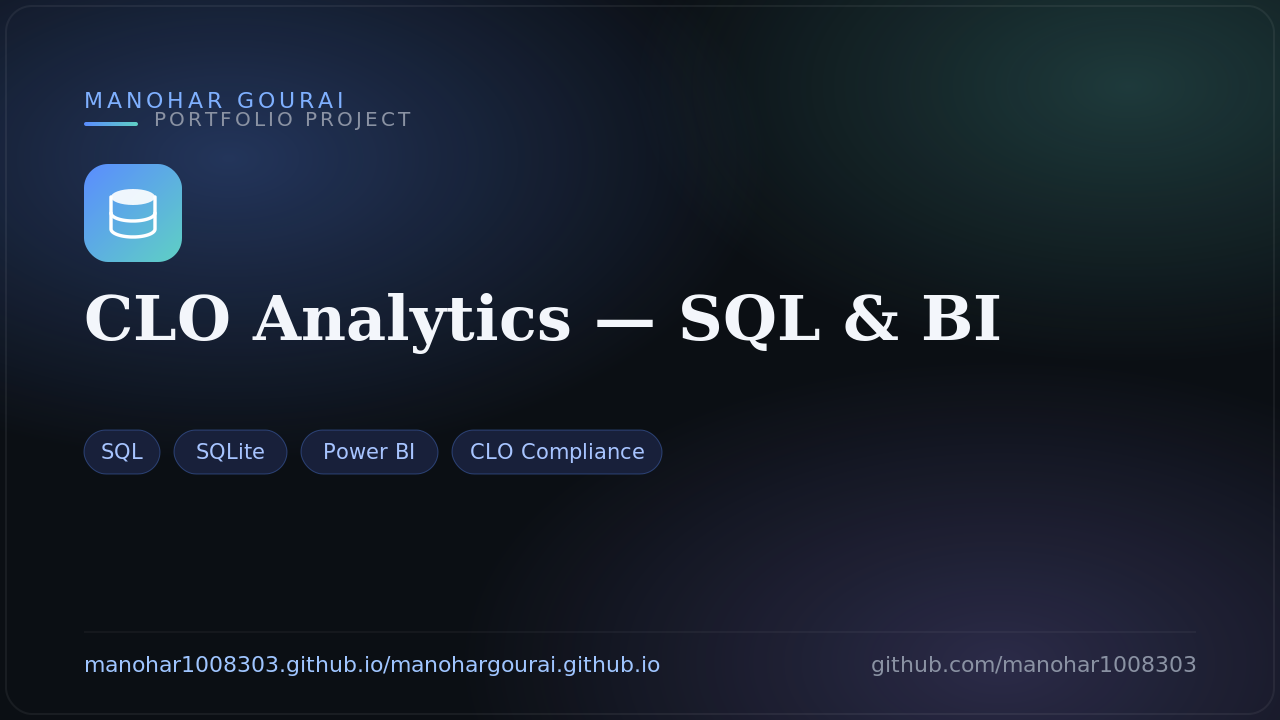
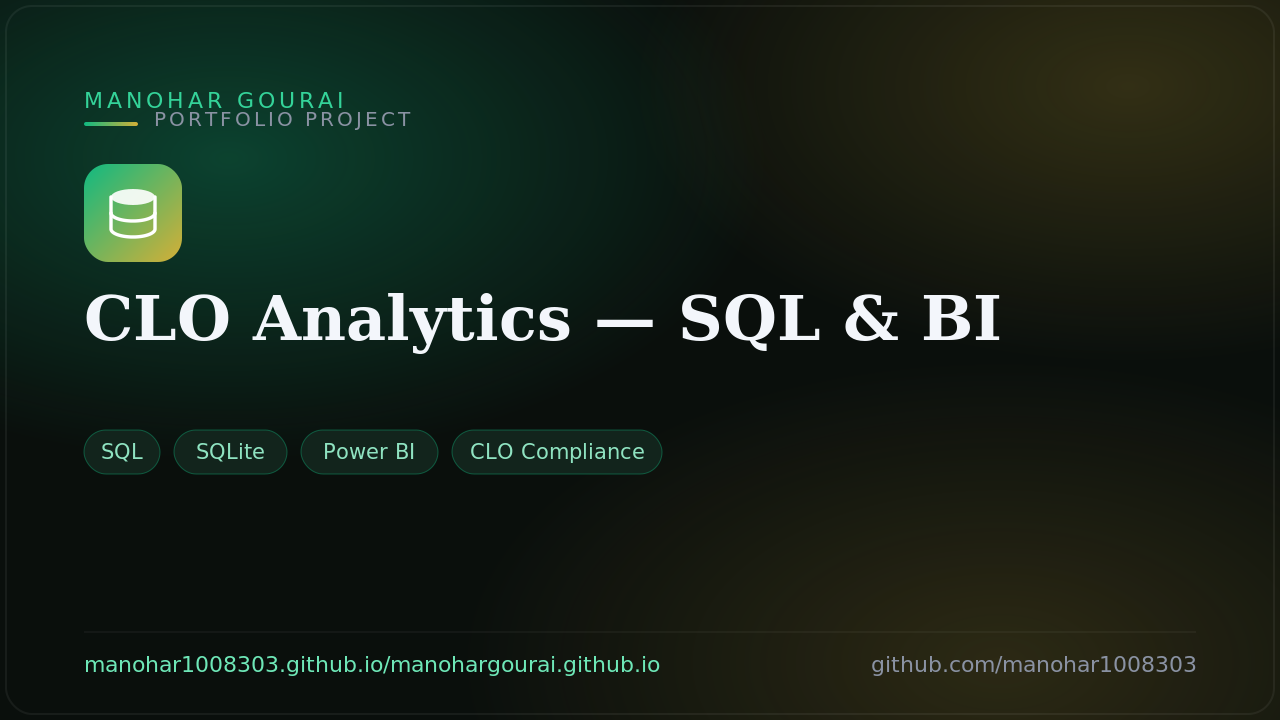
Recolor project landing pages + previews to emerald/gold; add matching fonts

diff --git a/culture-economic-analysis/index.html b/culture-economic-analysis/index.html
@@ -12,21 +12,22 @@
 <meta name="twitter:title" content="Culture &amp; Economic Performance Analysis">
 <meta name="twitter:description" content="A JMP statistical study pairing Hofstede&#x27;s six cultural dimensions with GDP per capita for 60 countries across 2020–2024 — correlation and hypothesis testing, multiple regression with full diagnostics, factor analysis, and GDP forecasting for market-entry insight.">
 <meta name="twitter:image" content="https://manohar1008303.github.io/manohargourai.github.io/culture-economic-analysis/preview.png">
+<link rel="preconnect" href="https://fonts.googleapis.com"><link rel="preconnect" href="https://fonts.gstatic.com" crossorigin><link href="https://fonts.googleapis.com/css2?family=Fraunces:opsz,wght@9..144,500;9..144,600;9..144,700&family=Spline+Sans:wght@400;500;600;700&display=swap" rel="stylesheet">
 <style>
 *{box-sizing:border-box}
-body{margin:0;font-family:'Spline Sans','Segoe UI',sans-serif;background:#0b0f14;color:#e6e8eb;min-height:100vh;
-background-image:radial-gradient(40% 50% at 15% 20%,rgba(90,140,255,.18),transparent 70%),radial-gradient(35% 45% at 85% 15%,rgba(95,208,196,.14),transparent 70%),radial-gradient(45% 55% at 75% 85%,rgba(155,140,255,.13),transparent 70%),radial-gradient(circle at top left,#141b2d,#0b0f14);}
+body{margin:0;font-family:'Spline Sans','Segoe UI',sans-serif;background:#0a0f0c;color:#e6e8eb;min-height:100vh;
+background-image:radial-gradient(40% 50% at 15% 20%,rgba(16,185,129,.18),transparent 70%),radial-gradient(35% 45% at 85% 15%,rgba(212,175,55,.14),transparent 70%),radial-gradient(45% 55% at 75% 85%,rgba(201,161,58,.13),transparent 70%),radial-gradient(circle at top left,#0f1e18,#0a0f0c);}
 .wrap{max-width:820px;margin:0 auto;padding:64px 24px;}
-.back{color:#9fc5ff;text-decoration:none;font-size:15px;}
-.kicker{margin-top:40px;letter-spacing:4px;color:#7fb0ff;font-size:14px;}
+.back{color:#6ee7b7;text-decoration:none;font-size:15px;}
+.kicker{margin-top:40px;letter-spacing:4px;color:#34d399;font-size:14px;}
 h1{font-family:'Fraunces',Georgia,serif;font-size:44px;line-height:1.15;margin:14px 0 20px;}
 p.desc{color:#cfd6e6;line-height:1.75;font-size:18px;}
 .tags{display:flex;flex-wrap:wrap;gap:10px;margin:26px 0 36px;}
-.tag{font-size:13px;padding:7px 15px;border-radius:16px;background:rgba(255,255,255,.06);color:#a7c4ff;}
+.tag{font-size:13px;padding:7px 15px;border-radius:16px;background:rgba(255,255,255,.06);color:#8fe3c1;}
 .btns{display:flex;flex-wrap:wrap;gap:16px;}
 .btn{display:inline-flex;align-items:center;gap:9px;padding:14px 26px;border-radius:28px;text-decoration:none;font-size:15px;font-weight:600;}
-.btn.primary{background:linear-gradient(135deg,#5a8cff,#5fd0c4);color:#08101f;}
-.btn.ghost{border:1px solid rgba(127,176,255,.4);color:#9fc5ff;}
+.btn.primary{background:linear-gradient(135deg,#10b981,#d4af37);color:#08101f;}
+.btn.ghost{border:1px solid rgba(52,211,153,.4);color:#6ee7b7;}
 .thumb{width:100%;border-radius:18px;margin-top:44px;box-shadow:0 18px 50px rgba(0,0,0,.5);border:1px solid rgba(255,255,255,.06);}
 footer{margin-top:56px;color:#7a828f;font-size:14px;}
 </style></head>

diff --git a/ecommerce-sales-analysis/index.html b/ecommerce-sales-analysis/index.html
@@ -12,21 +12,22 @@
 <meta name="twitter:title" content="E-Commerce Sales &amp; Order Analysis">
 <meta name="twitter:description" content="An end-to-end Tableau analysis of a Brazilian e-commerce marketplace (~89K order lines) across orders, products, customers, payments and sellers — six worksheets, an interactive dashboard, and a multi-step data story surfacing category, payment and seasonal insights.">
 <meta name="twitter:image" content="https://manohar1008303.github.io/manohargourai.github.io/ecommerce-sales-analysis/preview.png">
+<link rel="preconnect" href="https://fonts.googleapis.com"><link rel="preconnect" href="https://fonts.gstatic.com" crossorigin><link href="https://fonts.googleapis.com/css2?family=Fraunces:opsz,wght@9..144,500;9..144,600;9..144,700&family=Spline+Sans:wght@400;500;600;700&display=swap" rel="stylesheet">
 <style>
 *{box-sizing:border-box}
-body{margin:0;font-family:'Spline Sans','Segoe UI',sans-serif;background:#0b0f14;color:#e6e8eb;min-height:100vh;
-background-image:radial-gradient(40% 50% at 15% 20%,rgba(90,140,255,.18),transparent 70%),radial-gradient(35% 45% at 85% 15%,rgba(95,208,196,.14),transparent 70%),radial-gradient(45% 55% at 75% 85%,rgba(155,140,255,.13),transparent 70%),radial-gradient(circle at top left,#141b2d,#0b0f14);}
+body{margin:0;font-family:'Spline Sans','Segoe UI',sans-serif;background:#0a0f0c;color:#e6e8eb;min-height:100vh;
+background-image:radial-gradient(40% 50% at 15% 20%,rgba(16,185,129,.18),transparent 70%),radial-gradient(35% 45% at 85% 15%,rgba(212,175,55,.14),transparent 70%),radial-gradient(45% 55% at 75% 85%,rgba(201,161,58,.13),transparent 70%),radial-gradient(circle at top left,#0f1e18,#0a0f0c);}
 .wrap{max-width:820px;margin:0 auto;padding:64px 24px;}
-.back{color:#9fc5ff;text-decoration:none;font-size:15px;}
-.kicker{margin-top:40px;letter-spacing:4px;color:#7fb0ff;font-size:14px;}
+.back{color:#6ee7b7;text-decoration:none;font-size:15px;}
+.kicker{margin-top:40px;letter-spacing:4px;color:#34d399;font-size:14px;}
 h1{font-family:'Fraunces',Georgia,serif;font-size:44px;line-height:1.15;margin:14px 0 20px;}
 p.desc{color:#cfd6e6;line-height:1.75;font-size:18px;}
 .tags{display:flex;flex-wrap:wrap;gap:10px;margin:26px 0 36px;}
-.tag{font-size:13px;padding:7px 15px;border-radius:16px;background:rgba(255,255,255,.06);color:#a7c4ff;}
+.tag{font-size:13px;padding:7px 15px;border-radius:16px;background:rgba(255,255,255,.06);color:#8fe3c1;}
 .btns{display:flex;flex-wrap:wrap;gap:16px;}
 .btn{display:inline-flex;align-items:center;gap:9px;padding:14px 26px;border-radius:28px;text-decoration:none;font-size:15px;font-weight:600;}
-.btn.primary{background:linear-gradient(135deg,#5a8cff,#5fd0c4);color:#08101f;}
-.btn.ghost{border:1px solid rgba(127,176,255,.4);color:#9fc5ff;}
+.btn.primary{background:linear-gradient(135deg,#10b981,#d4af37);color:#08101f;}
+.btn.ghost{border:1px solid rgba(52,211,153,.4);color:#6ee7b7;}
 .thumb{width:100%;border-radius:18px;margin-top:44px;box-shadow:0 18px 50px rgba(0,0,0,.5);border:1px solid rgba(255,255,255,.06);}
 footer{margin-top:56px;color:#7a828f;font-size:14px;}
 </style></head>

diff --git a/academic-advising-rag/index.html b/academic-advising-rag/index.html
@@ -12,21 +12,22 @@
 <meta name="twitter:title" content="Academic Advising Assistant (RAG)">
 <meta name="twitter:description" content="A retrieval-augmented generation chatbot for academic advising — a LangChain pipeline embeds advising documents into a FAISS vector store, retrieves the most relevant context for the language model, and returns answers with their sources, via a Streamlit interface.">
 <meta name="twitter:image" content="https://manohar1008303.github.io/manohargourai.github.io/academic-advising-rag/preview.png">
+<link rel="preconnect" href="https://fonts.googleapis.com"><link rel="preconnect" href="https://fonts.gstatic.com" crossorigin><link href="https://fonts.googleapis.com/css2?family=Fraunces:opsz,wght@9..144,500;9..144,600;9..144,700&family=Spline+Sans:wght@400;500;600;700&display=swap" rel="stylesheet">
 <style>
 *{box-sizing:border-box}
-body{margin:0;font-family:'Spline Sans','Segoe UI',sans-serif;background:#0b0f14;color:#e6e8eb;min-height:100vh;
-background-image:radial-gradient(40% 50% at 15% 20%,rgba(90,140,255,.18),transparent 70%),radial-gradient(35% 45% at 85% 15%,rgba(95,208,196,.14),transparent 70%),radial-gradient(45% 55% at 75% 85%,rgba(155,140,255,.13),transparent 70%),radial-gradient(circle at top left,#141b2d,#0b0f14);}
+body{margin:0;font-family:'Spline Sans','Segoe UI',sans-serif;background:#0a0f0c;color:#e6e8eb;min-height:100vh;
+background-image:radial-gradient(40% 50% at 15% 20%,rgba(16,185,129,.18),transparent 70%),radial-gradient(35% 45% at 85% 15%,rgba(212,175,55,.14),transparent 70%),radial-gradient(45% 55% at 75% 85%,rgba(201,161,58,.13),transparent 70%),radial-gradient(circle at top left,#0f1e18,#0a0f0c);}
 .wrap{max-width:820px;margin:0 auto;padding:64px 24px;}
-.back{color:#9fc5ff;text-decoration:none;font-size:15px;}
-.kicker{margin-top:40px;letter-spacing:4px;color:#7fb0ff;font-size:14px;}
+.back{color:#6ee7b7;text-decoration:none;font-size:15px;}
+.kicker{margin-top:40px;letter-spacing:4px;color:#34d399;font-size:14px;}
 h1{font-family:'Fraunces',Georgia,serif;font-size:44px;line-height:1.15;margin:14px 0 20px;}
 p.desc{color:#cfd6e6;line-height:1.75;font-size:18px;}
 .tags{display:flex;flex-wrap:wrap;gap:10px;margin:26px 0 36px;}
-.tag{font-size:13px;padding:7px 15px;border-radius:16px;background:rgba(255,255,255,.06);color:#a7c4ff;}
+.tag{font-size:13px;padding:7px 15px;border-radius:16px;background:rgba(255,255,255,.06);color:#8fe3c1;}
 .btns{display:flex;flex-wrap:wrap;gap:16px;}
 .btn{display:inline-flex;align-items:center;gap:9px;padding:14px 26px;border-radius:28px;text-decoration:none;font-size:15px;font-weight:600;}
-.btn.primary{background:linear-gradient(135deg,#5a8cff,#5fd0c4);color:#08101f;}
-.btn.ghost{border:1px solid rgba(127,176,255,.4);color:#9fc5ff;}
+.btn.primary{background:linear-gradient(135deg,#10b981,#d4af37);color:#08101f;}
+.btn.ghost{border:1px solid rgba(52,211,153,.4);color:#6ee7b7;}
 .thumb{width:100%;border-radius:18px;margin-top:44px;box-shadow:0 18px 50px rgba(0,0,0,.5);border:1px solid rgba(255,255,255,.06);}
 footer{margin-top:56px;color:#7a828f;font-size:14px;}
 </style></head>

diff --git a/loan-portfolio-optimization/index.html b/loan-portfolio-optimization/index.html
@@ -12,21 +12,22 @@
 <meta name="twitter:title" content="Loan Portfolio Optimization Analysis">
 <meta name="twitter:description" content="A data analysis of an optimized leveraged-loan portfolio — allocation and industry exposure, risk versus return, and key credit metrics: a 3.92% expected return at a 3.27% average default probability with a portfolio WARF of 3050 across a diversified book.">
 <meta name="twitter:image" content="https://manohar1008303.github.io/manohargourai.github.io/loan-portfolio-optimization/preview.png">
+<link rel="preconnect" href="https://fonts.googleapis.com"><link rel="preconnect" href="https://fonts.gstatic.com" crossorigin><link href="https://fonts.googleapis.com/css2?family=Fraunces:opsz,wght@9..144,500;9..144,600;9..144,700&family=Spline+Sans:wght@400;500;600;700&display=swap" rel="stylesheet">
 <style>
 *{box-sizing:border-box}
-body{margin:0;font-family:'Spline Sans','Segoe UI',sans-serif;background:#0b0f14;color:#e6e8eb;min-height:100vh;
-background-image:radial-gradient(40% 50% at 15% 20%,rgba(90,140,255,.18),transparent 70%),radial-gradient(35% 45% at 85% 15%,rgba(95,208,196,.14),transparent 70%),radial-gradient(45% 55% at 75% 85%,rgba(155,140,255,.13),transparent 70%),radial-gradient(circle at top left,#141b2d,#0b0f14);}
+body{margin:0;font-family:'Spline Sans','Segoe UI',sans-serif;background:#0a0f0c;color:#e6e8eb;min-height:100vh;
+background-image:radial-gradient(40% 50% at 15% 20%,rgba(16,185,129,.18),transparent 70%),radial-gradient(35% 45% at 85% 15%,rgba(212,175,55,.14),transparent 70%),radial-gradient(45% 55% at 75% 85%,rgba(201,161,58,.13),transparent 70%),radial-gradient(circle at top left,#0f1e18,#0a0f0c);}
 .wrap{max-width:820px;margin:0 auto;padding:64px 24px;}
-.back{color:#9fc5ff;text-decoration:none;font-size:15px;}
-.kicker{margin-top:40px;letter-spacing:4px;color:#7fb0ff;font-size:14px;}
+.back{color:#6ee7b7;text-decoration:none;font-size:15px;}
+.kicker{margin-top:40px;letter-spacing:4px;color:#34d399;font-size:14px;}
 h1{font-family:'Fraunces',Georgia,serif;font-size:44px;line-height:1.15;margin:14px 0 20px;}
 p.desc{color:#cfd6e6;line-height:1.75;font-size:18px;}
 .tags{display:flex;flex-wrap:wrap;gap:10px;margin:26px 0 36px;}
-.tag{font-size:13px;padding:7px 15px;border-radius:16px;background:rgba(255,255,255,.06);color:#a7c4ff;}
+.tag{font-size:13px;padding:7px 15px;border-radius:16px;background:rgba(255,255,255,.06);color:#8fe3c1;}
 .btns{display:flex;flex-wrap:wrap;gap:16px;}
 .btn{display:inline-flex;align-items:center;gap:9px;padding:14px 26px;border-radius:28px;text-decoration:none;font-size:15px;font-weight:600;}
-.btn.primary{background:linear-gradient(135deg,#5a8cff,#5fd0c4);color:#08101f;}
-.btn.ghost{border:1px solid rgba(127,176,255,.4);color:#9fc5ff;}
+.btn.primary{background:linear-gradient(135deg,#10b981,#d4af37);color:#08101f;}
+.btn.ghost{border:1px solid rgba(52,211,153,.4);color:#6ee7b7;}
 .thumb{width:100%;border-radius:18px;margin-top:44px;box-shadow:0 18px 50px rgba(0,0,0,.5);border:1px solid rgba(255,255,255,.06);}
 footer{margin-top:56px;color:#7a828f;font-size:14px;}
 </style></head>

diff --git a/clo-analytics/index.html b/clo-analytics/index.html
@@ -12,21 +12,22 @@
 <meta name="twitter:title" content="CLO Analytics — SQL &amp; BI">
 <meta name="twitter:description" content="End-to-end CLO analytics built in SQL and BI across four deals, 700 syndicated loans and ~$2B of collateral — indenture compliance testing, the payment waterfall, portfolio and credit analytics, and trustee reconciliation, surfaced through an interactive dashboard.">
 <meta name="twitter:image" content="https://manohar1008303.github.io/manohargourai.github.io/clo-analytics/preview.png">
+<link rel="preconnect" href="https://fonts.googleapis.com"><link rel="preconnect" href="https://fonts.gstatic.com" crossorigin><link href="https://fonts.googleapis.com/css2?family=Fraunces:opsz,wght@9..144,500;9..144,600;9..144,700&family=Spline+Sans:wght@400;500;600;700&display=swap" rel="stylesheet">
 <style>
 *{box-sizing:border-box}
-body{margin:0;font-family:'Spline Sans','Segoe UI',sans-serif;background:#0b0f14;color:#e6e8eb;min-height:100vh;
-background-image:radial-gradient(40% 50% at 15% 20%,rgba(90,140,255,.18),transparent 70%),radial-gradient(35% 45% at 85% 15%,rgba(95,208,196,.14),transparent 70%),radial-gradient(45% 55% at 75% 85%,rgba(155,140,255,.13),transparent 70%),radial-gradient(circle at top left,#141b2d,#0b0f14);}
+body{margin:0;font-family:'Spline Sans','Segoe UI',sans-serif;background:#0a0f0c;color:#e6e8eb;min-height:100vh;
+background-image:radial-gradient(40% 50% at 15% 20%,rgba(16,185,129,.18),transparent 70%),radial-gradient(35% 45% at 85% 15%,rgba(212,175,55,.14),transparent 70%),radial-gradient(45% 55% at 75% 85%,rgba(201,161,58,.13),transparent 70%),radial-gradient(circle at top left,#0f1e18,#0a0f0c);}
 .wrap{max-width:820px;margin:0 auto;padding:64px 24px;}
-.back{color:#9fc5ff;text-decoration:none;font-size:15px;}
-.kicker{margin-top:40px;letter-spacing:4px;color:#7fb0ff;font-size:14px;}
+.back{color:#6ee7b7;text-decoration:none;font-size:15px;}
+.kicker{margin-top:40px;letter-spacing:4px;color:#34d399;font-size:14px;}
 h1{font-family:'Fraunces',Georgia,serif;font-size:44px;line-height:1.15;margin:14px 0 20px;}
 p.desc{color:#cfd6e6;line-height:1.75;font-size:18px;}
 .tags{display:flex;flex-wrap:wrap;gap:10px;margin:26px 0 36px;}
-.tag{font-size:13px;padding:7px 15px;border-radius:16px;background:rgba(255,255,255,.06);color:#a7c4ff;}
+.tag{font-size:13px;padding:7px 15px;border-radius:16px;background:rgba(255,255,255,.06);color:#8fe3c1;}
 .btns{display:flex;flex-wrap:wrap;gap:16px;}
 .btn{display:inline-flex;align-items:center;gap:9px;padding:14px 26px;border-radius:28px;text-decoration:none;font-size:15px;font-weight:600;}
-.btn.primary{background:linear-gradient(135deg,#5a8cff,#5fd0c4);color:#08101f;}
-.btn.ghost{border:1px solid rgba(127,176,255,.4);color:#9fc5ff;}
+.btn.primary{background:linear-gradient(135deg,#10b981,#d4af37);color:#08101f;}
+.btn.ghost{border:1px solid rgba(52,211,153,.4);color:#6ee7b7;}
 .thumb{width:100%;border-radius:18px;margin-top:44px;box-shadow:0 18px 50px rgba(0,0,0,.5);border:1px solid rgba(255,255,255,.06);}
 footer{margin-top:56px;color:#7a828f;font-size:14px;}
 </style></head>

diff --git a/clo-cashflow-engine/index.html b/clo-cashflow-engine/index.html
@@ -12,21 +12,22 @@
 <meta name="twitter:title" content="CLO Cashflow Engine">
 <meta name="twitter:description" content="A modular Python engine that models Collateralized Loan Obligation cashflows end to end — loading loan-level data, building a pool summary, running OC and IC coverage tests, and executing the payment waterfall across tranches, then generating a structured report.">
 <meta name="twitter:image" content="https://manohar1008303.github.io/manohargourai.github.io/clo-cashflow-engine/preview.png">
+<link rel="preconnect" href="https://fonts.googleapis.com"><link rel="preconnect" href="https://fonts.gstatic.com" crossorigin><link href="https://fonts.googleapis.com/css2?family=Fraunces:opsz,wght@9..144,500;9..144,600;9..144,700&family=Spline+Sans:wght@400;500;600;700&display=swap" rel="stylesheet">
 <style>
 *{box-sizing:border-box}
-body{margin:0;font-family:'Spline Sans','Segoe UI',sans-serif;background:#0b0f14;color:#e6e8eb;min-height:100vh;
-background-image:radial-gradient(40% 50% at 15% 20%,rgba(90,140,255,.18),transparent 70%),radial-gradient(35% 45% at 85% 15%,rgba(95,208,196,.14),transparent 70%),radial-gradient(45% 55% at 75% 85%,rgba(155,140,255,.13),transparent 70%),radial-gradient(circle at top left,#141b2d,#0b0f14);}
+body{margin:0;font-family:'Spline Sans','Segoe UI',sans-serif;background:#0a0f0c;color:#e6e8eb;min-height:100vh;
+background-image:radial-gradient(40% 50% at 15% 20%,rgba(16,185,129,.18),transparent 70%),radial-gradient(35% 45% at 85% 15%,rgba(212,175,55,.14),transparent 70%),radial-gradient(45% 55% at 75% 85%,rgba(201,161,58,.13),transparent 70%),radial-gradient(circle at top left,#0f1e18,#0a0f0c);}
 .wrap{max-width:820px;margin:0 auto;padding:64px 24px;}
-.back{color:#9fc5ff;text-decoration:none;font-size:15px;}
-.kicker{margin-top:40px;letter-spacing:4px;color:#7fb0ff;font-size:14px;}
+.back{color:#6ee7b7;text-decoration:none;font-size:15px;}
+.kicker{margin-top:40px;letter-spacing:4px;color:#34d399;font-size:14px;}
 h1{font-family:'Fraunces',Georgia,serif;font-size:44px;line-height:1.15;margin:14px 0 20px;}
 p.desc{color:#cfd6e6;line-height:1.75;font-size:18px;}
 .tags{display:flex;flex-wrap:wrap;gap:10px;margin:26px 0 36px;}
-.tag{font-size:13px;padding:7px 15px;border-radius:16px;background:rgba(255,255,255,.06);color:#a7c4ff;}
+.tag{font-size:13px;padding:7px 15px;border-radius:16px;background:rgba(255,255,255,.06);color:#8fe3c1;}
 .btns{display:flex;flex-wrap:wrap;gap:16px;}
 .btn{display:inline-flex;align-items:center;gap:9px;padding:14px 26px;border-radius:28px;text-decoration:none;font-size:15px;font-weight:600;}
-.btn.primary{background:linear-gradient(135deg,#5a8cff,#5fd0c4);color:#08101f;}
-.btn.ghost{border:1px solid rgba(127,176,255,.4);color:#9fc5ff;}
+.btn.primary{background:linear-gradient(135deg,#10b981,#d4af37);color:#08101f;}
+.btn.ghost{border:1px solid rgba(52,211,153,.4);color:#6ee7b7;}
 .thumb{width:100%;border-radius:18px;margin-top:44px;box-shadow:0 18px 50px rgba(0,0,0,.5);border:1px solid rgba(255,255,255,.06);}
 footer{margin-top:56px;color:#7a828f;font-size:14px;}
 </style></head>
